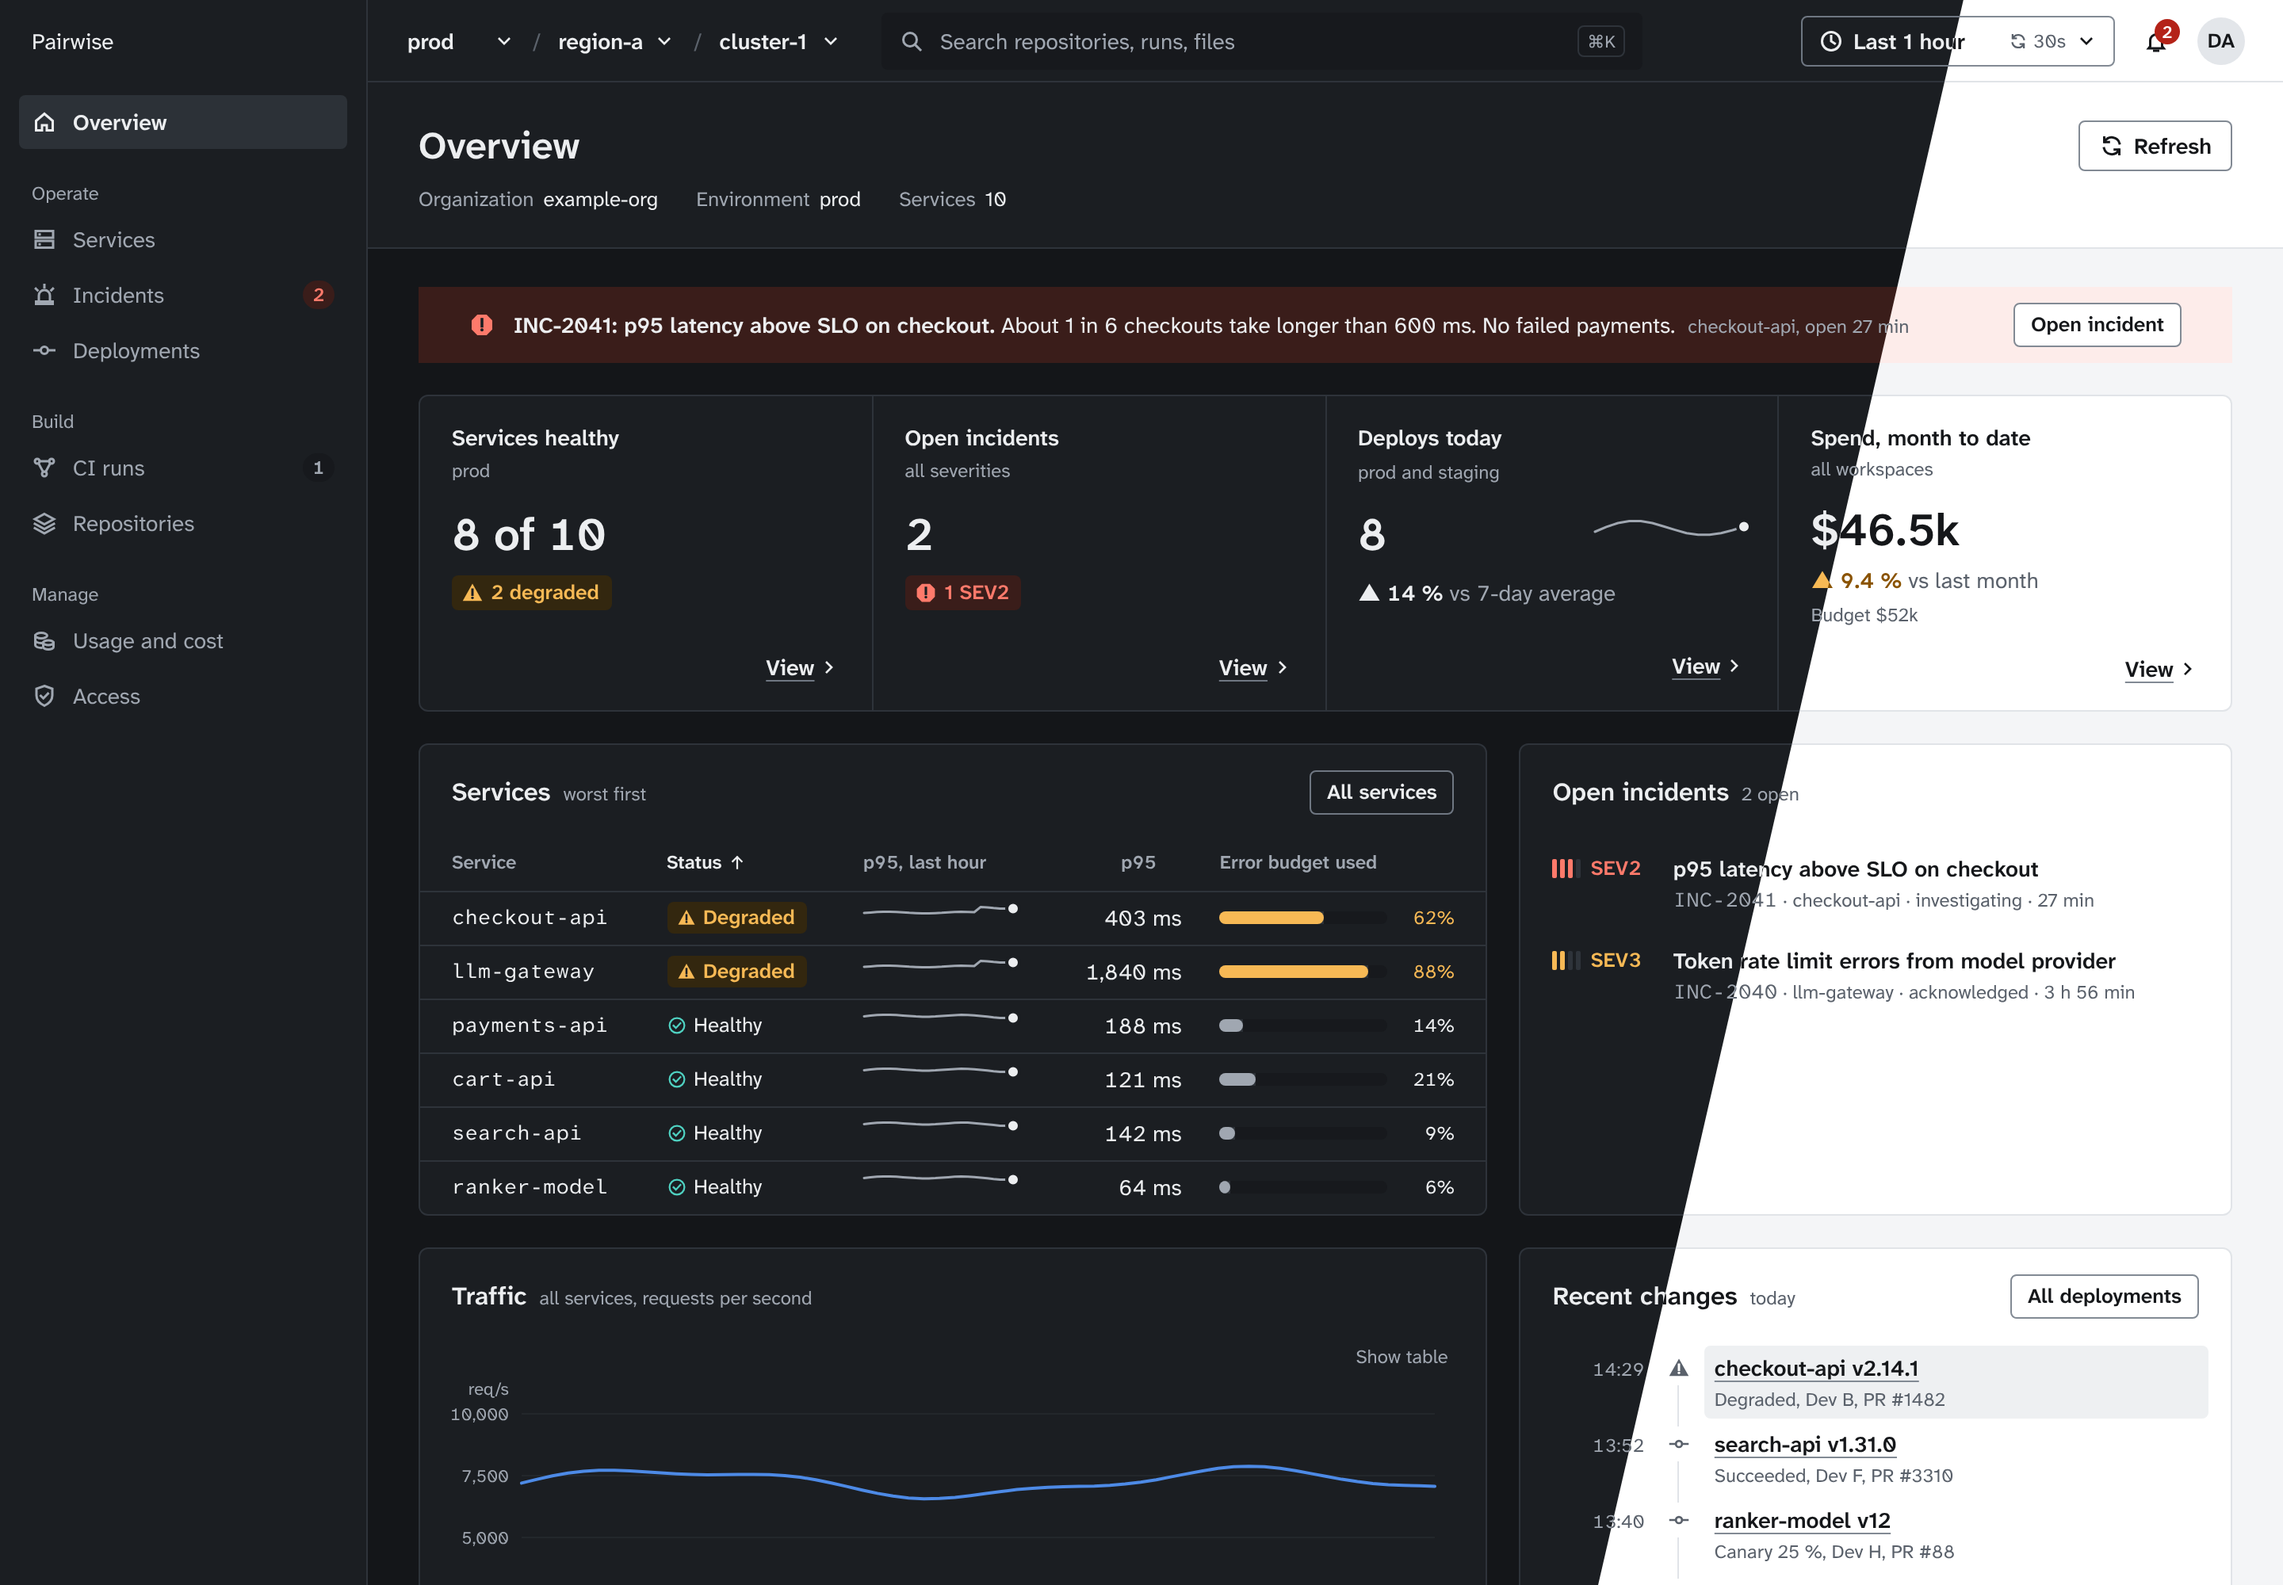
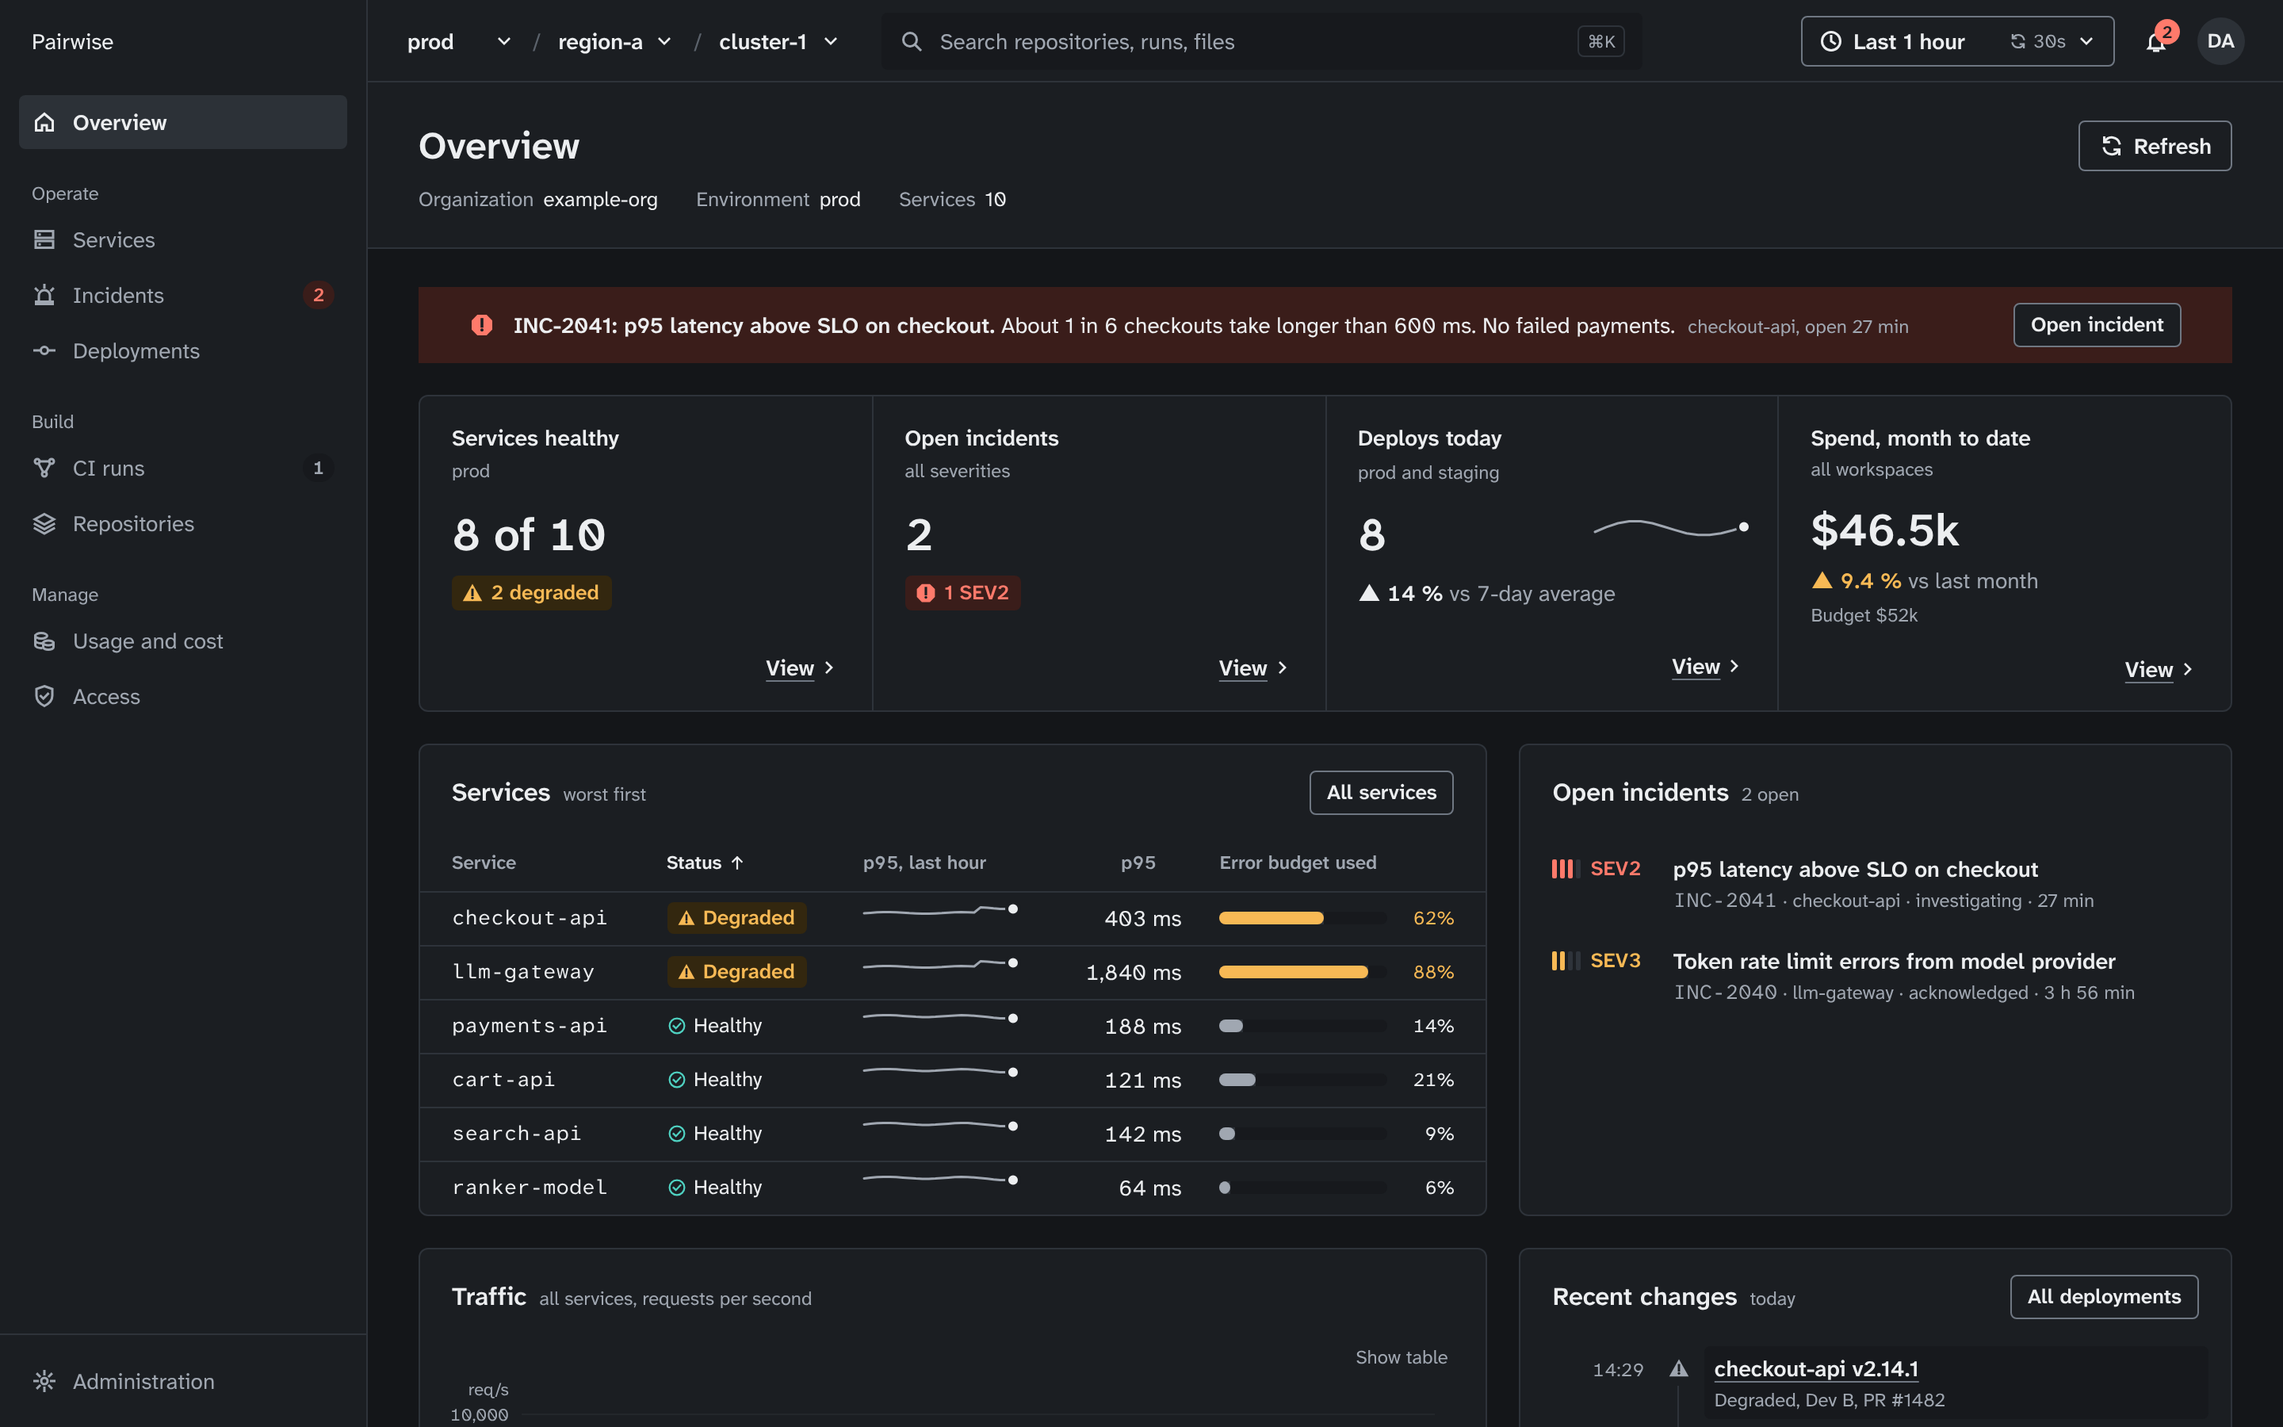
Make the README hero a plain dark capture of the overview
The diagonal light-theme sliver cut through text and panels and read as a
broken image. Light-theme screenshots stay under the hero.

Claude-Session: https://claude.ai/code/session_011XFrrFETCbu7f7i366w1No

diff --git a/README.md b/README.md
@@ -4,7 +4,7 @@
 
 **[Live demo](https://mithunmanohar.github.io/pairwise-saas-design-system/demo/)** · **[Component catalogue](https://mithunmanohar.github.io/pairwise-saas-design-system/catalogue/)** · [Site](https://mithunmanohar.github.io/pairwise-saas-design-system/)
 
-![The overview page of the demo app in the dark theme, with a light-theme sliver on the right, built only from Pairwise components](docs/images/hero.png)
+![The overview page of the demo app in the dark theme, built only from Pairwise components](docs/images/hero.png)
 
 <sub>Every image on this page is a real screenshot of the code in this repo, regenerated by one script (<a href="examples/scripts/screenshots.mjs"><code>examples/scripts/screenshots.mjs</code></a>). Nothing is mocked up.</sub>
 
